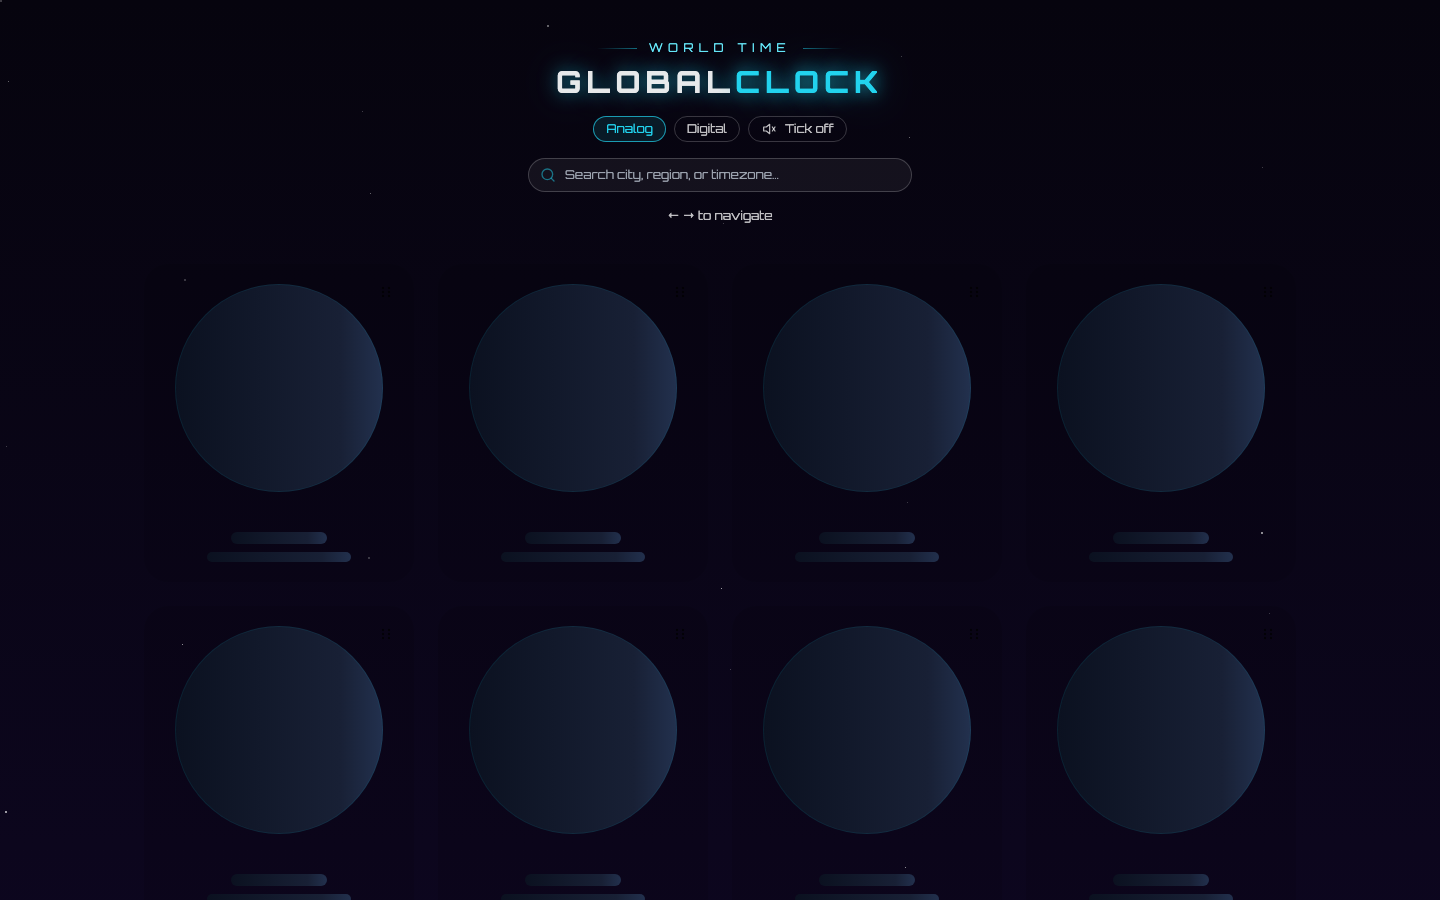
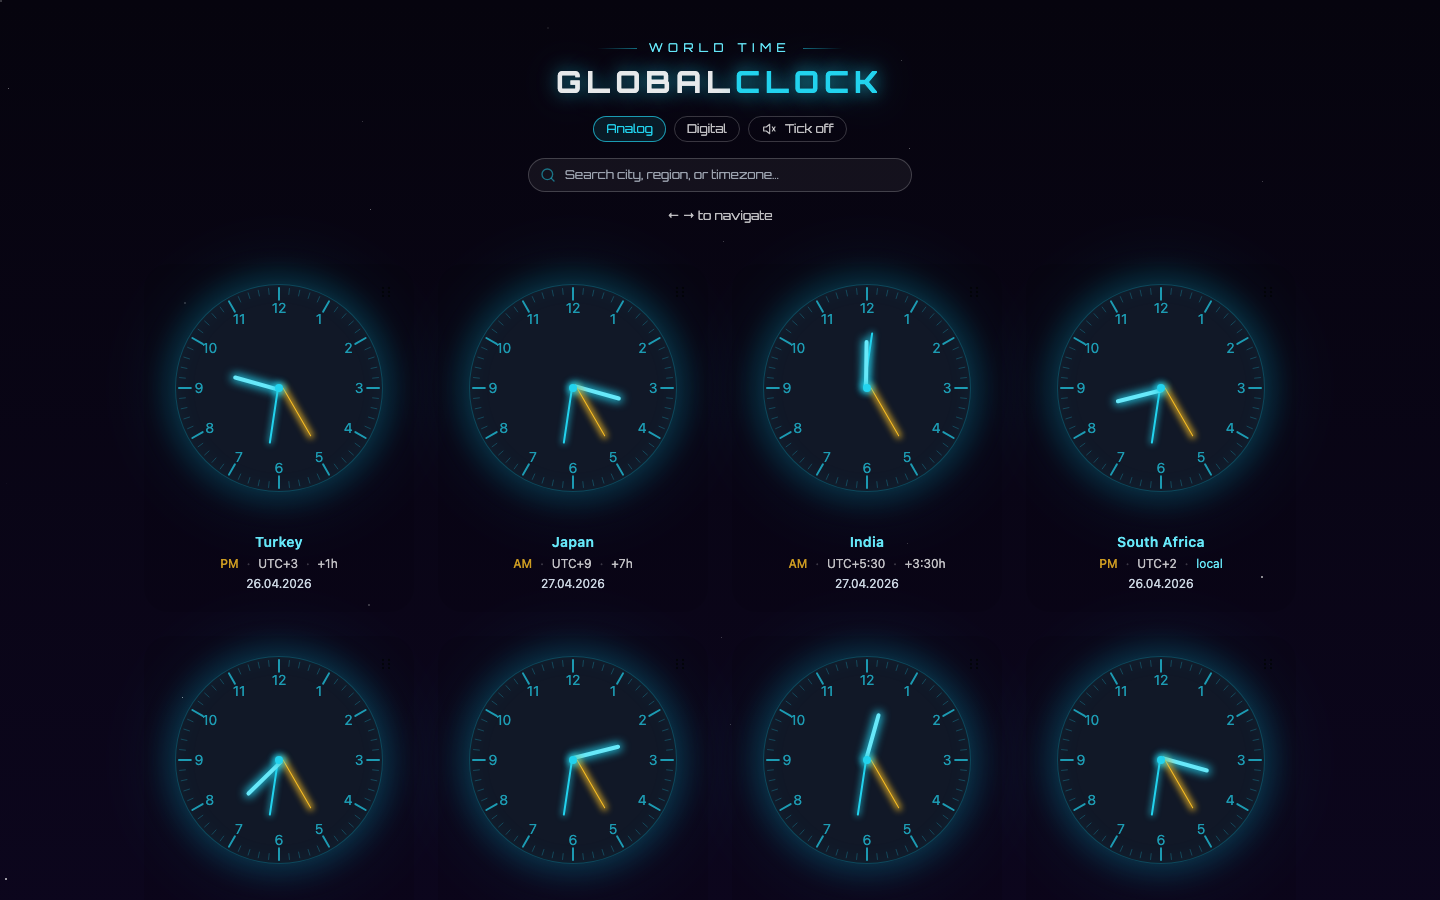
Add README preview and performance table

diff --git a/README.md b/README.md
@@ -8,12 +8,12 @@ GlobalClock is a React world clock dashboard built with Vite and Tailwind CSS. I
 
 ## Performance
 
-| Metric | Score |
-|---|---|
-| Performance | 91 |
-| Accessibility | 96 |
-| Best Practices | 100 |
-| SEO | 100 |
+| Metric         | Score |
+| -------------- | ----- |
+| Performance    | 91    |
+| Accessibility  | 96    |
+| Best Practices | 100   |
+| SEO            | 100   |
 
 ### Features
 
@@ -63,24 +63,3 @@ Preview the production build:
 ```bash
 npm run preview
 ```
-
-### Data Source
-
-The app does not call a backend or external time API. Timezone entries live in `src/Components/countriesArray.js`, and each clock is calculated locally with:
-
-```js
-new Date().toLocaleString("en-US", {
-  timeZone: country.timezone,
-});
-```
-
-This keeps the app fast, private, and usable without a server dependency. The displayed time depends on the user's device clock and the browser's built-in timezone database.
-
-### Deployment
-
-The app is ready for static hosting platforms such as Vercel. Use the default Vite settings:
-
-- Build command: `npm run build`
-- Output directory: `dist`
-
-Vercel serves deployments over HTTPS automatically.
